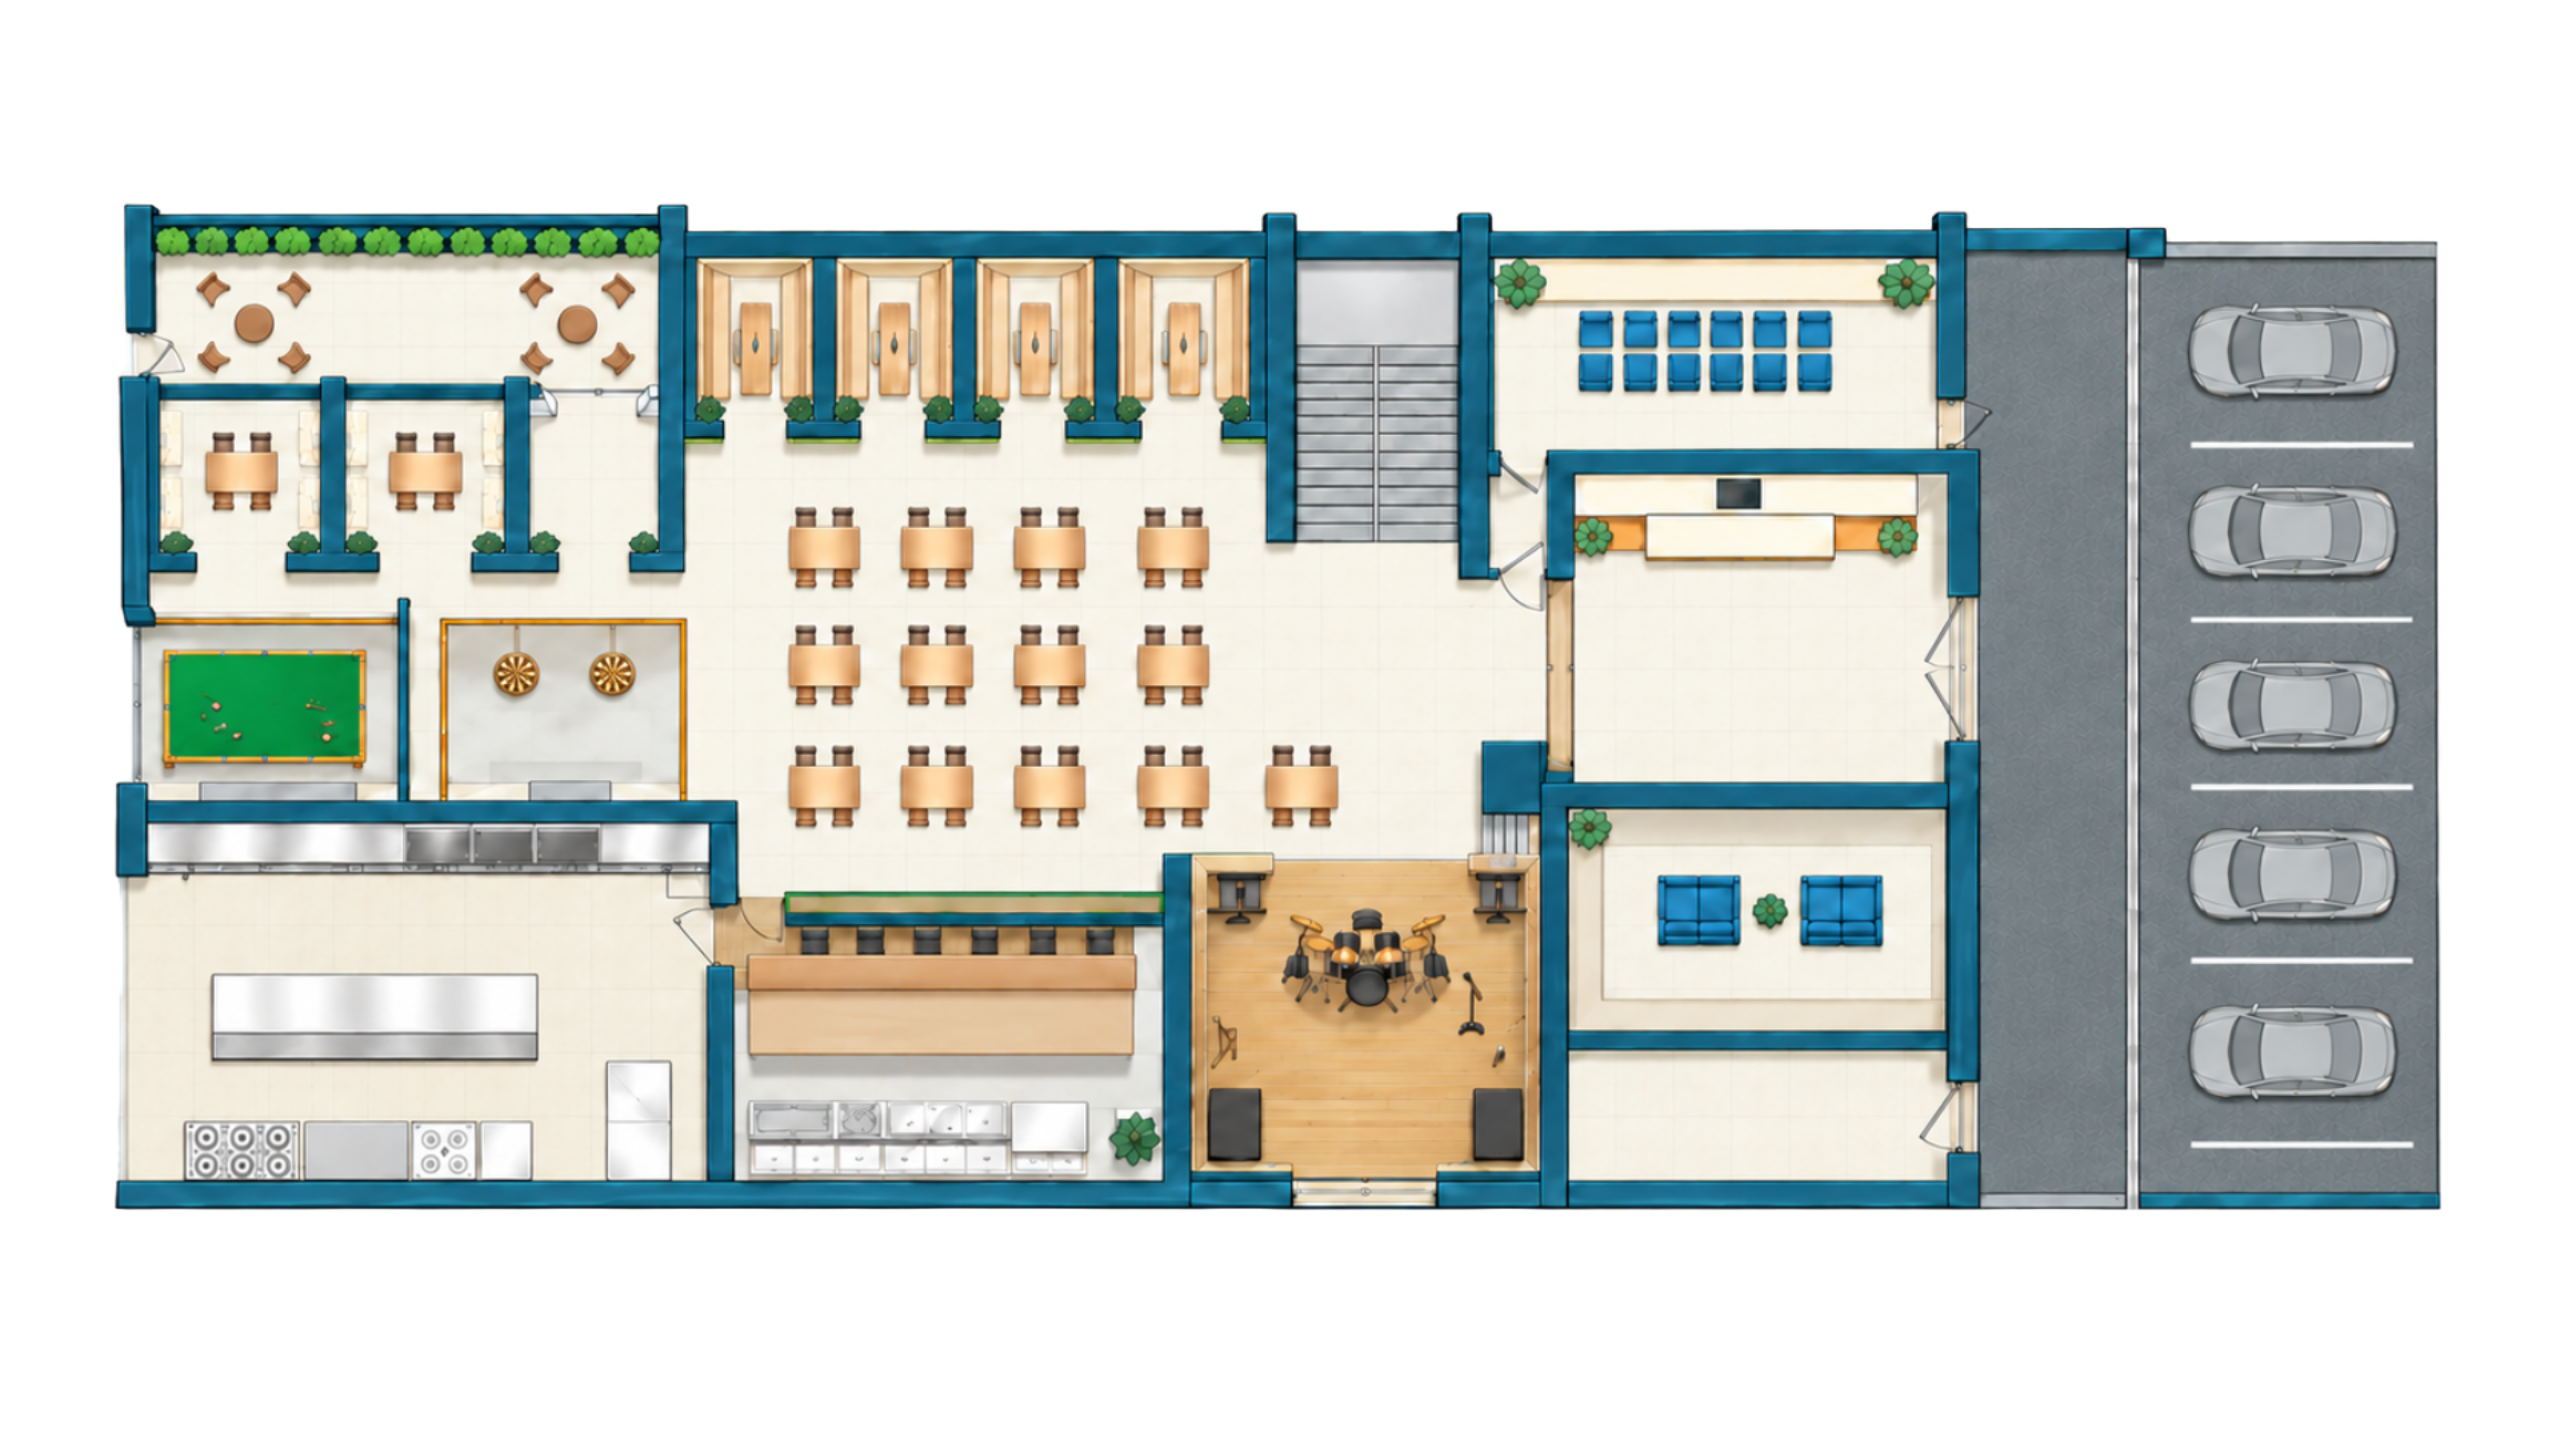
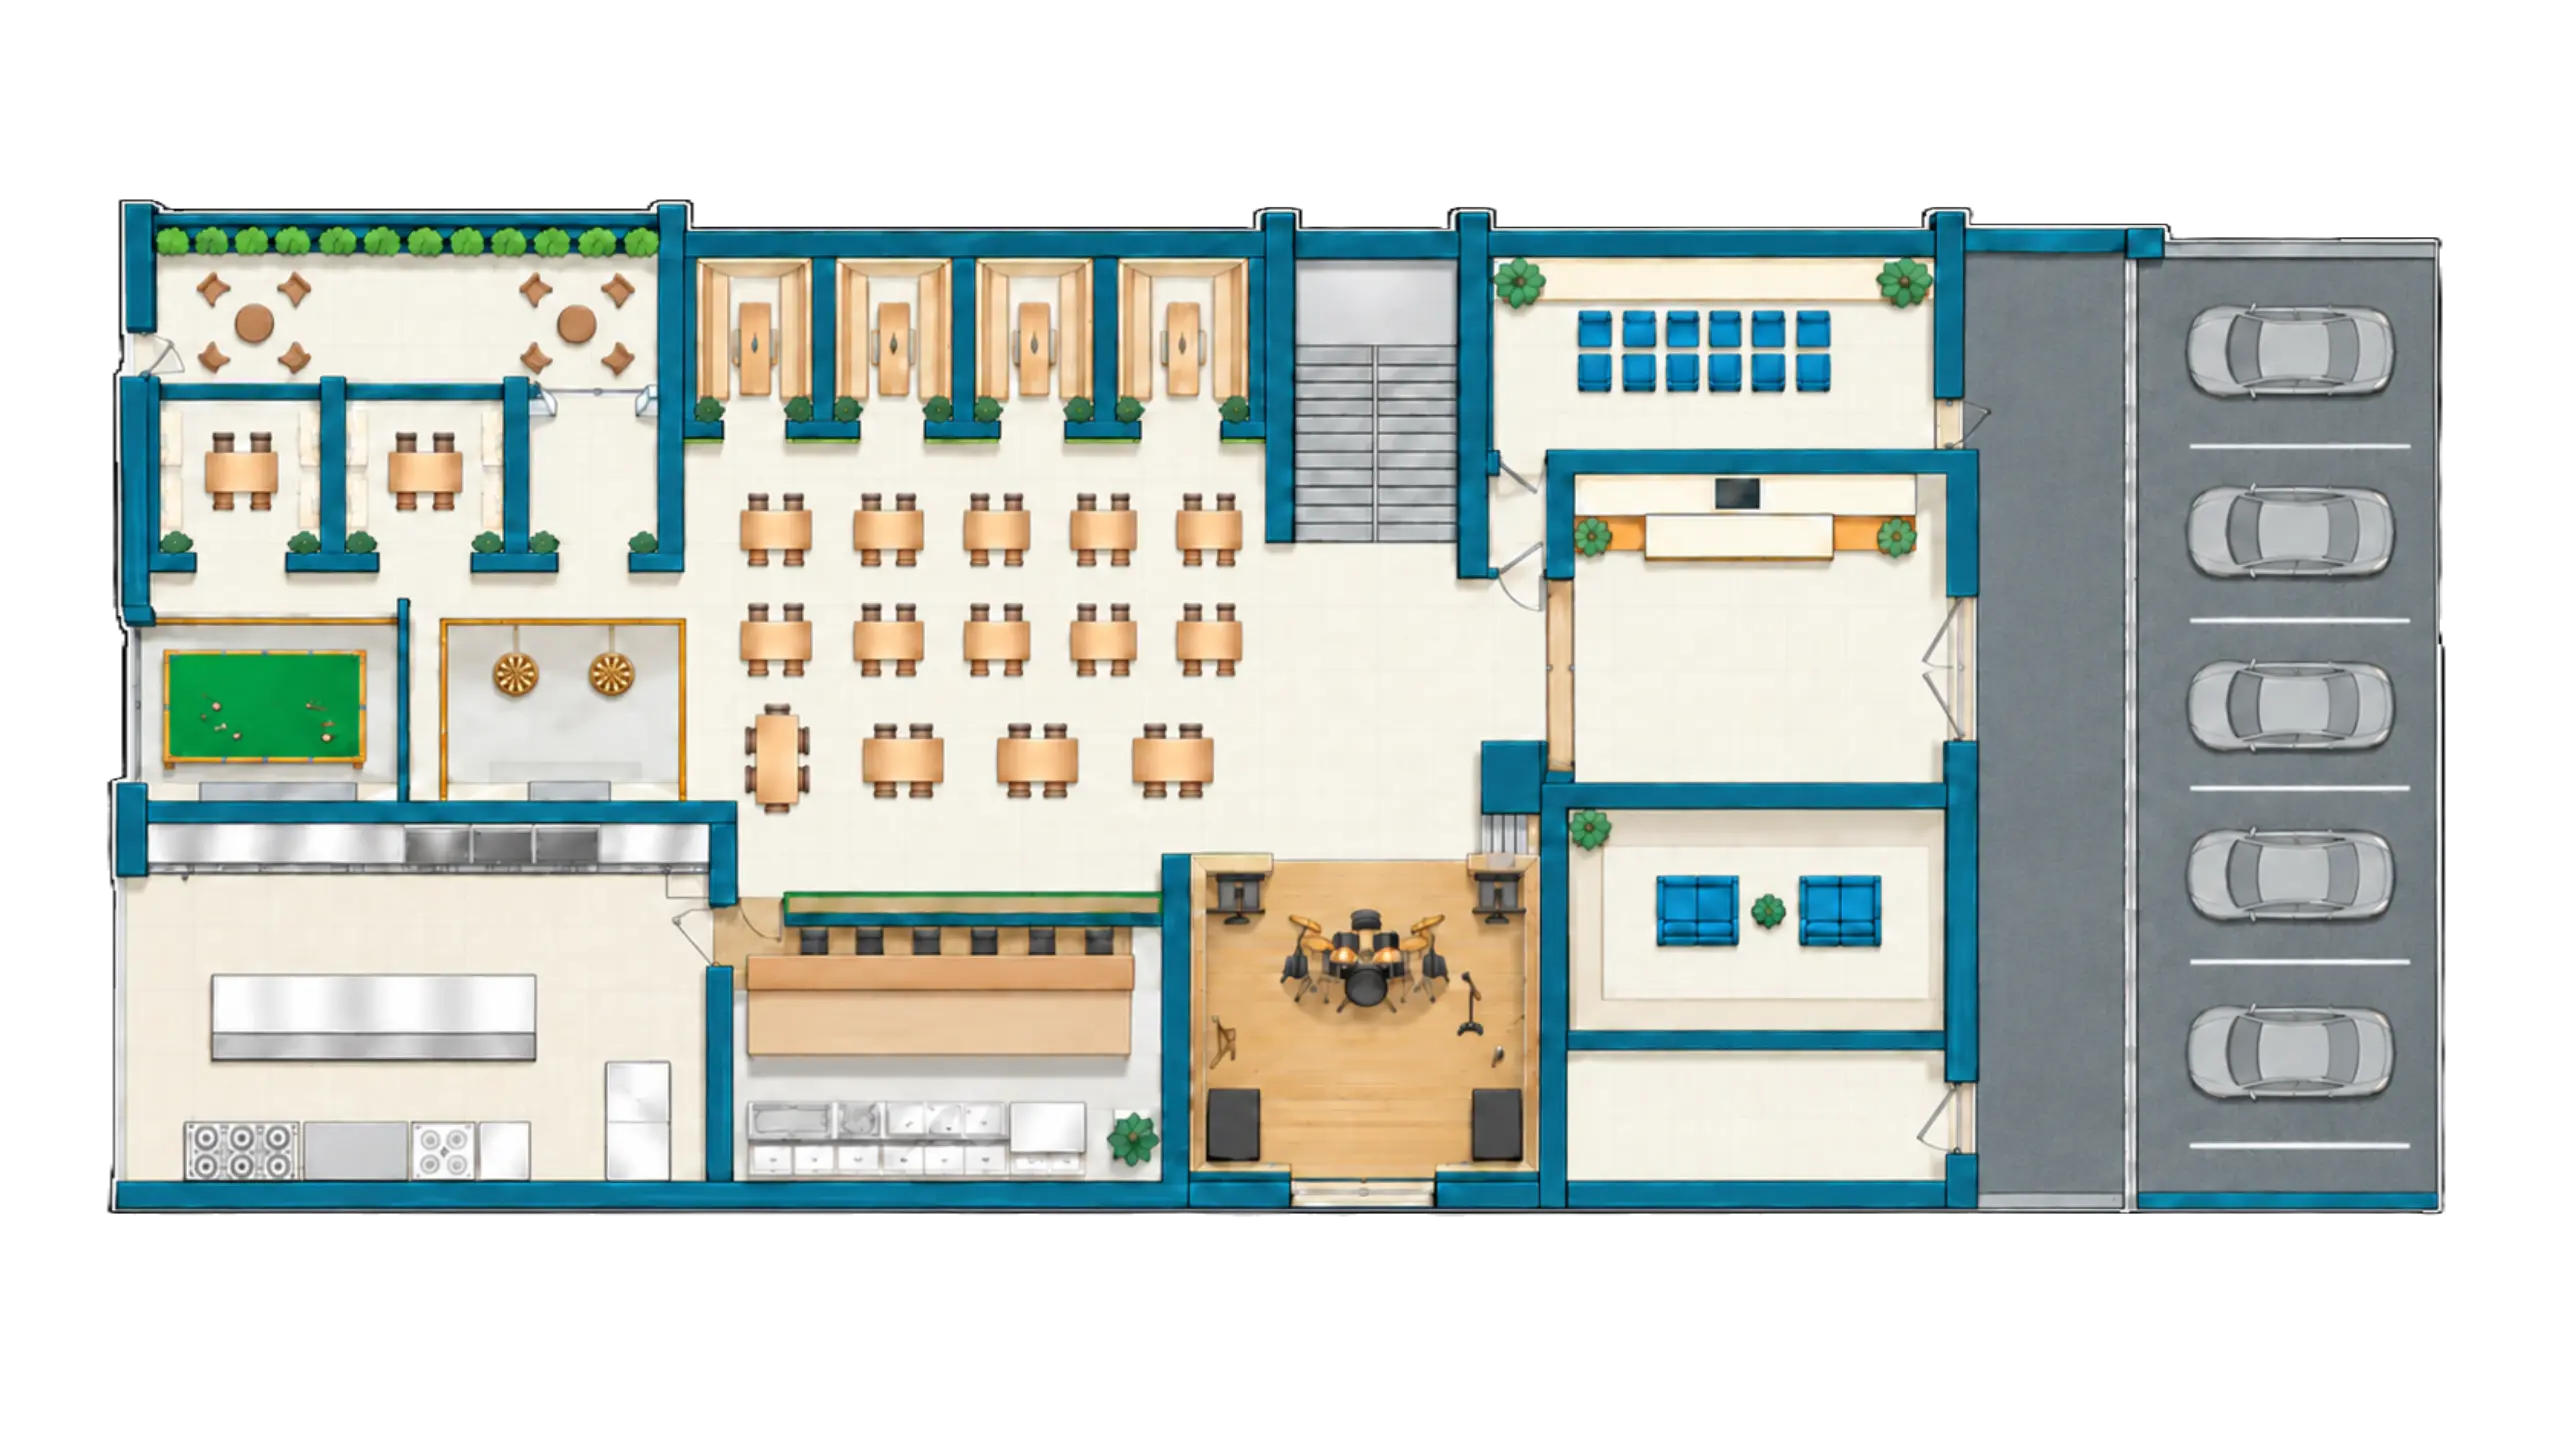
Fix first floor table layout and add outside zones

diff --git a/CHANGELOG.md b/CHANGELOG.md
@@ -9,6 +9,11 @@ here. They're kept as written for the record. restoAdmin now lives in its own re
 restoAdmin changes those entries describe are **not** part of it (see `[2.0.0]`). From `[2.0.0]` on,
 entries cover this app only and carry no prefix.
 
+## [2.7.0]
+
+### Changed
+- **The 1st floor plan shows Blue Moon's new dining-room layout.** The restaurant rearranged the middle dining area from rows of 4, 4 and 5 tables into rows of 5, 5 and 4, including a new long table, M14. The floor plan image now matches the room as it is today. The rest of the floor (Outside, On Air, P1–P4, the Bar, the Family Room and Take Out) is unchanged. Tablets load the image from the server, so they get it without a new app build ([first_floor.webp](public/floorplans/first_floor.webp)). *The zones for M1–M14 are being re-laid out to match.*
+
 ## [2.6.3]
 
 ### Changed
